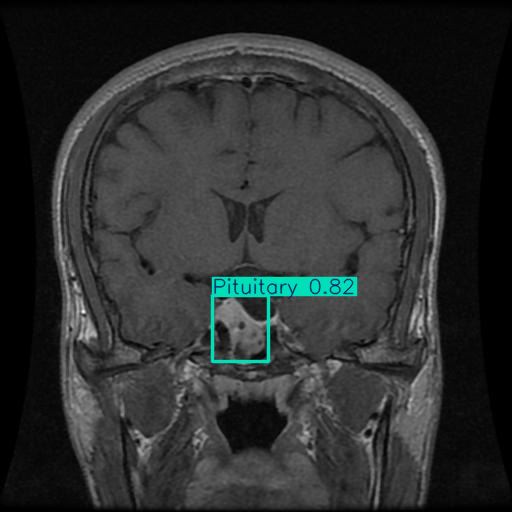
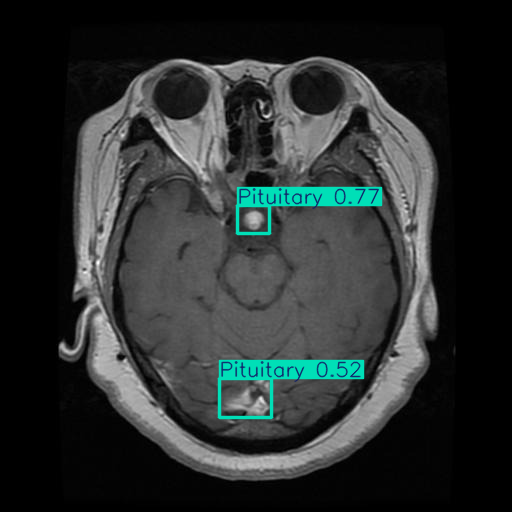
railway deploy

diff --git a/FrontEnd/tumor-scan-app/src/App.tsx b/FrontEnd/tumor-scan-app/src/App.tsx
@@ -90,7 +90,7 @@ function App() {
   const [selectedImage, setSelectedImage] = useState(null); //getter setter
   const [previewUrl, setPreviewUrl] = useState('');//setter getter as string
   const [predictionResult, setPredictionResult] = useState('');
-  const _localAPI = "http://localhost:8000/";
+  const _localAPI = import.meta.env.VITE_API_URL || "http://localhost:8000/"; //import for railway too
   // const _vercelAPI = "https://pytorch-brain-tumor-conv2d.vercel.app/";
   const handleImageChange = (e:any) => { //when image is recieved,turn it into url to be use for display
     const file = e.target.files[0];

diff --git a/BackEnd/webAPI.py b/BackEnd/webAPI.py
@@ -29,6 +29,7 @@ import mimetypes
 import json
 import base64
 import time
+import os
 
 
 #---------------------async context-------------------------
@@ -154,11 +155,17 @@ def YOLOprediction(brainScanImage):
 app = FastAPI(lifespan=lifespan,title =' Brain Tumor Scan API')
 
 #-----------------MIDDLEWARE---------------------
+
+
 origins = [
-    "https://localhost",    
     "http://localhost",
     "http://localhost:8080",
-]
+    "http://localhost:5173"]
+
+frontend_url = os.getenv("FRONTEND_URL")#for railway
+
+if frontend_url:
+    origins.append(frontend_url)
 
 app.add_middleware(
     CORSMiddleware,
